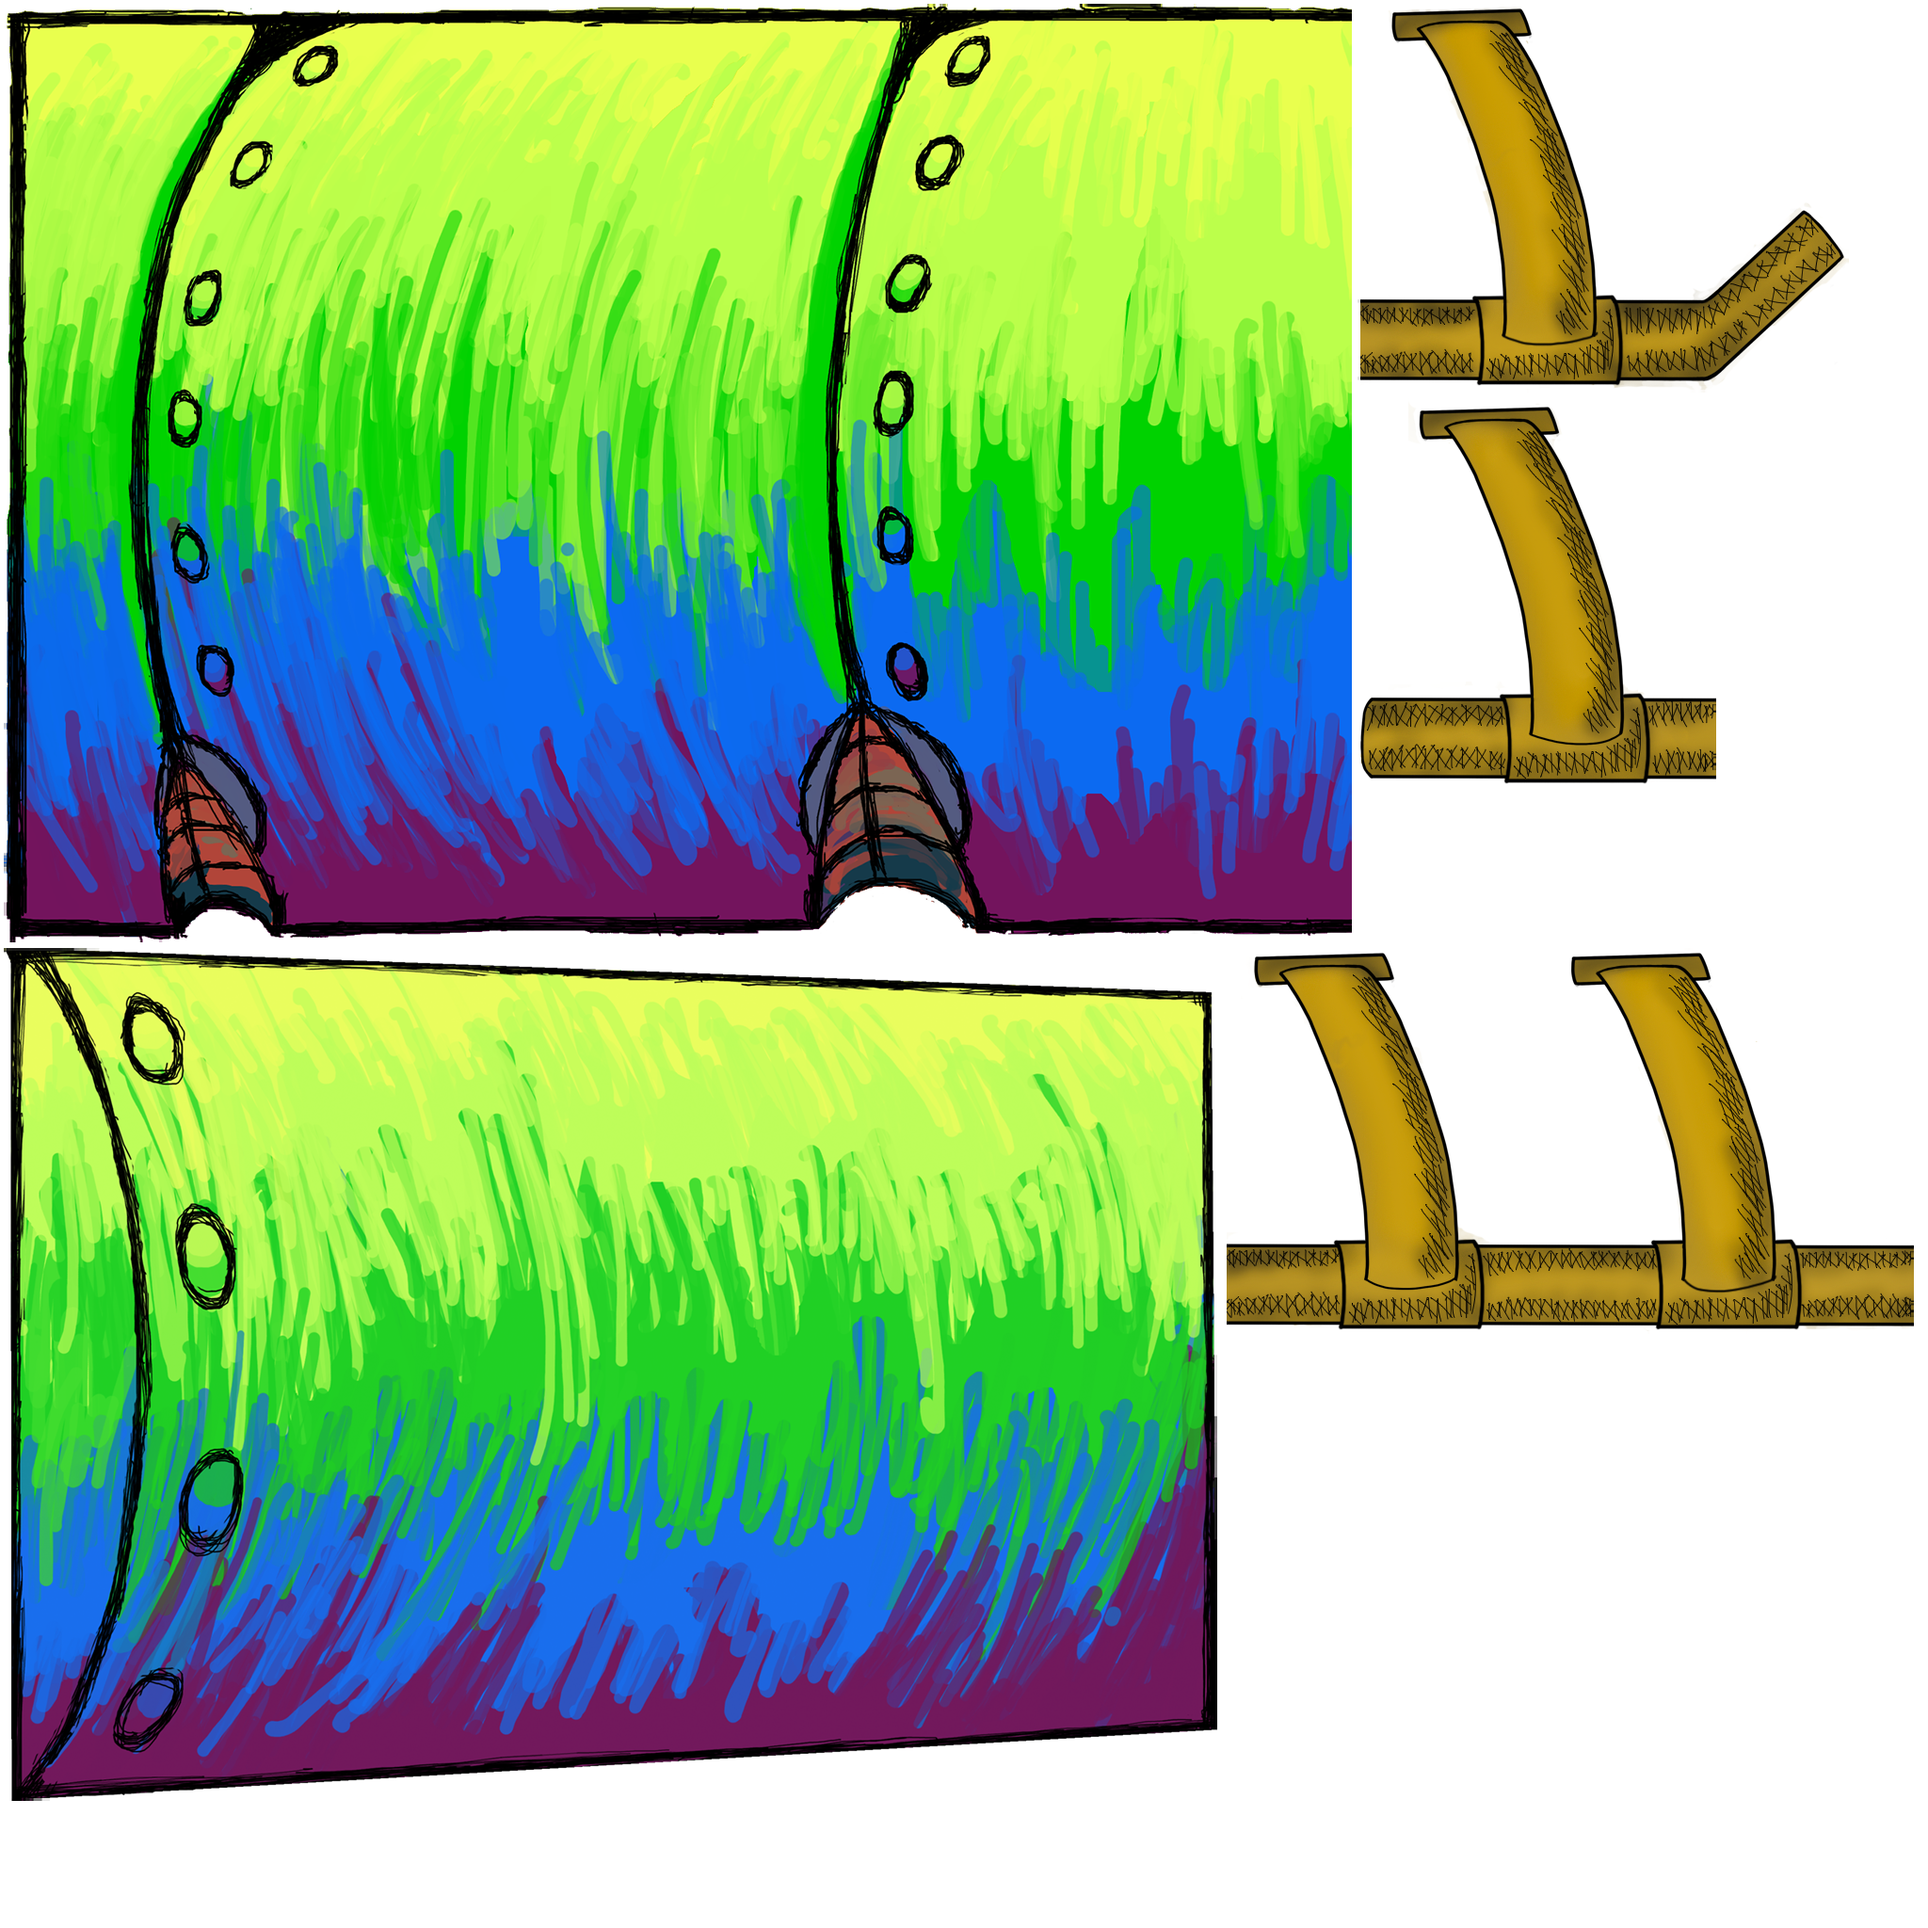
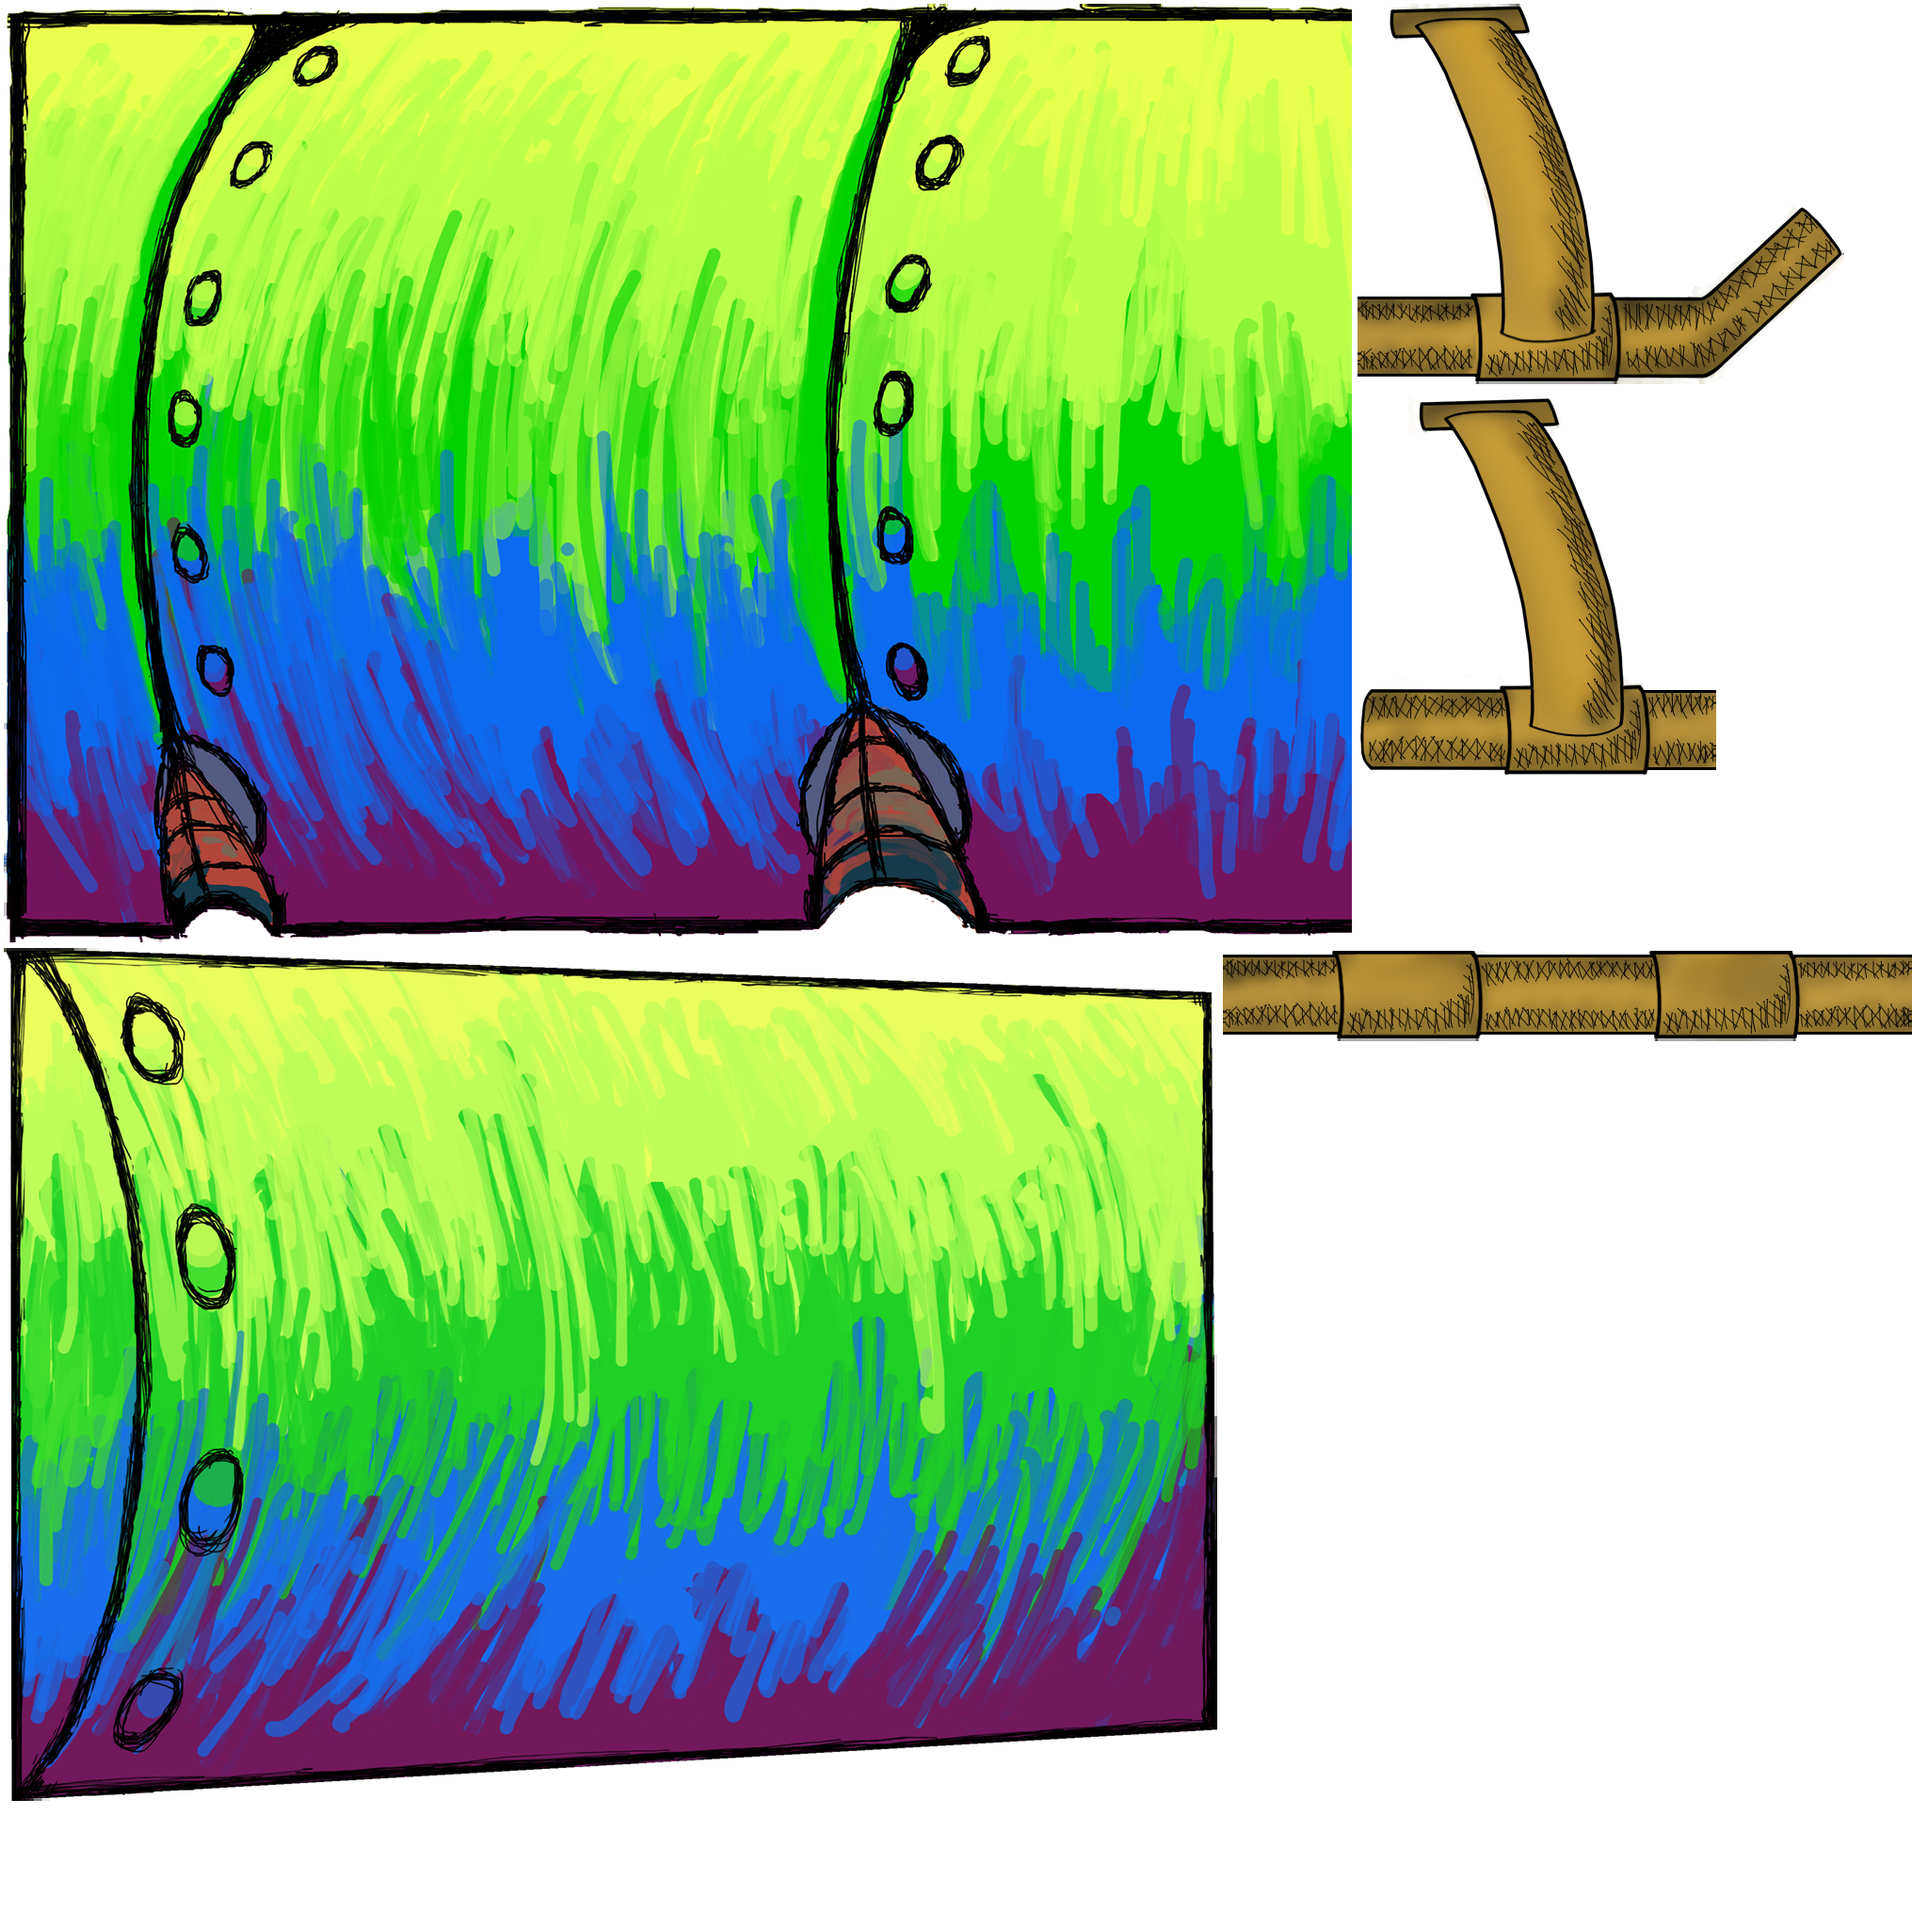
Dragon legs fixed

Changed region(s): [[0.625, 0.4688, 1.0, 0.6875], [0.6875, 0.0, 0.9688, 0.4062]]

diff --git a/werescrewed/src/com/blindtigergames/werescrewed/screens/DragonScreen.java b/werescrewed/src/com/blindtigergames/werescrewed/screens/DragonScreen.java
@@ -1412,16 +1412,16 @@ public class DragonScreen extends Screen {
 		
 		
 		Skeleton body_lower_skeleton = (Skeleton)LevelFactory.entities.get( "body_lower_skeleton" );
-		Vector2 legPos = new Vector2(-3*1280+120+34,-700+183-63);
+		Vector2 legPos = new Vector2(-3*1280+120+34-21,-700+183-63+21);
 		body_lower_skeleton.addFGDecal(  body_neck.createSprite( "legs_left" ), legPos.cpy());
 		for(int i=0; i<9;++i){
 			//dragon_objects
 			s = body_neck.createSprite( "legs_middle" );
-			body_lower_skeleton.addFGDecal( s, new Vector2(s.getWidth()*(i+0)+377-i*7,0).add(legPos));
+			body_lower_skeleton.addFGDecal( s, new Vector2(s.getWidth()*(i+0)+377+3-i*7,3).add(legPos));
 		}
-		body_lower_skeleton.addFGDecal( body_neck.createSprite( "legs_right" ), legPos.cpy().add(9*s.getWidth( )-7+326,-7));
+		body_lower_skeleton.addFGDecal( body_neck.createSprite( "legs_right" ), legPos.cpy().add(9*s.getWidth( )-7+326+5,-7+9));
 		addFGSkeleton( body_lower_skeleton );
-	}//326,7
+	}
 
 	void createMotor(Skeleton rotating, Skeleton parent, float motorSpeed){
 		
